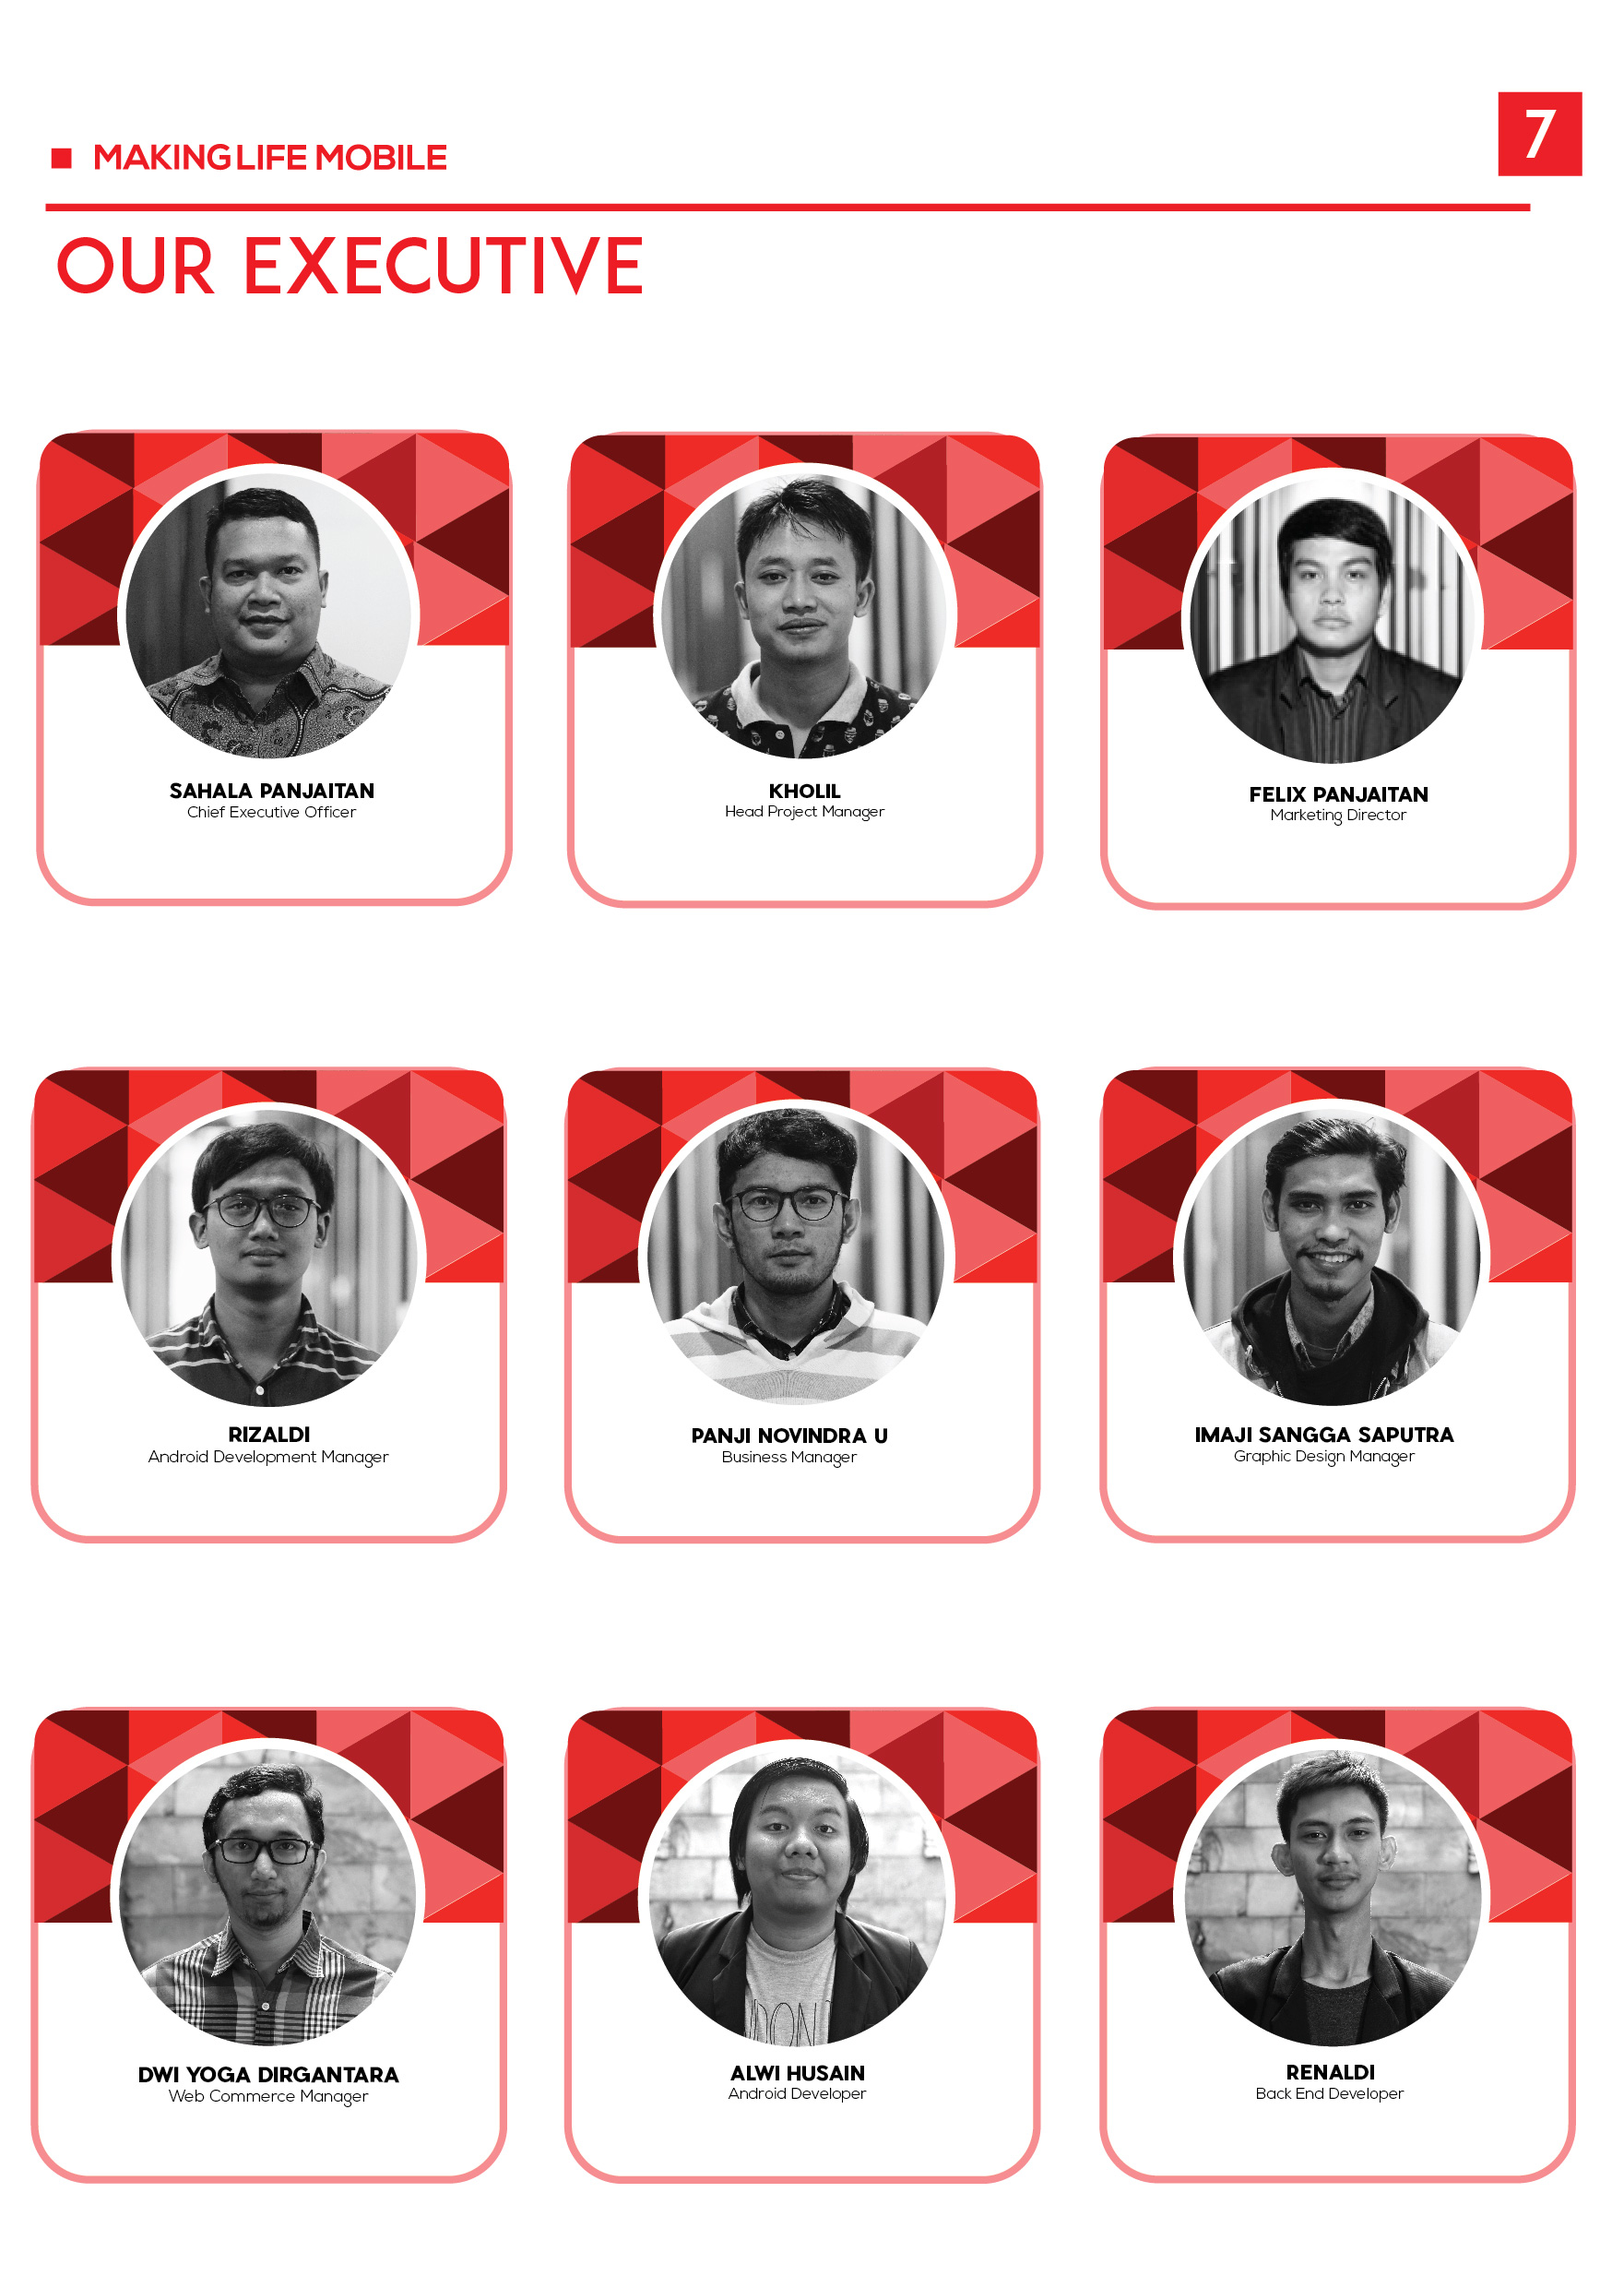
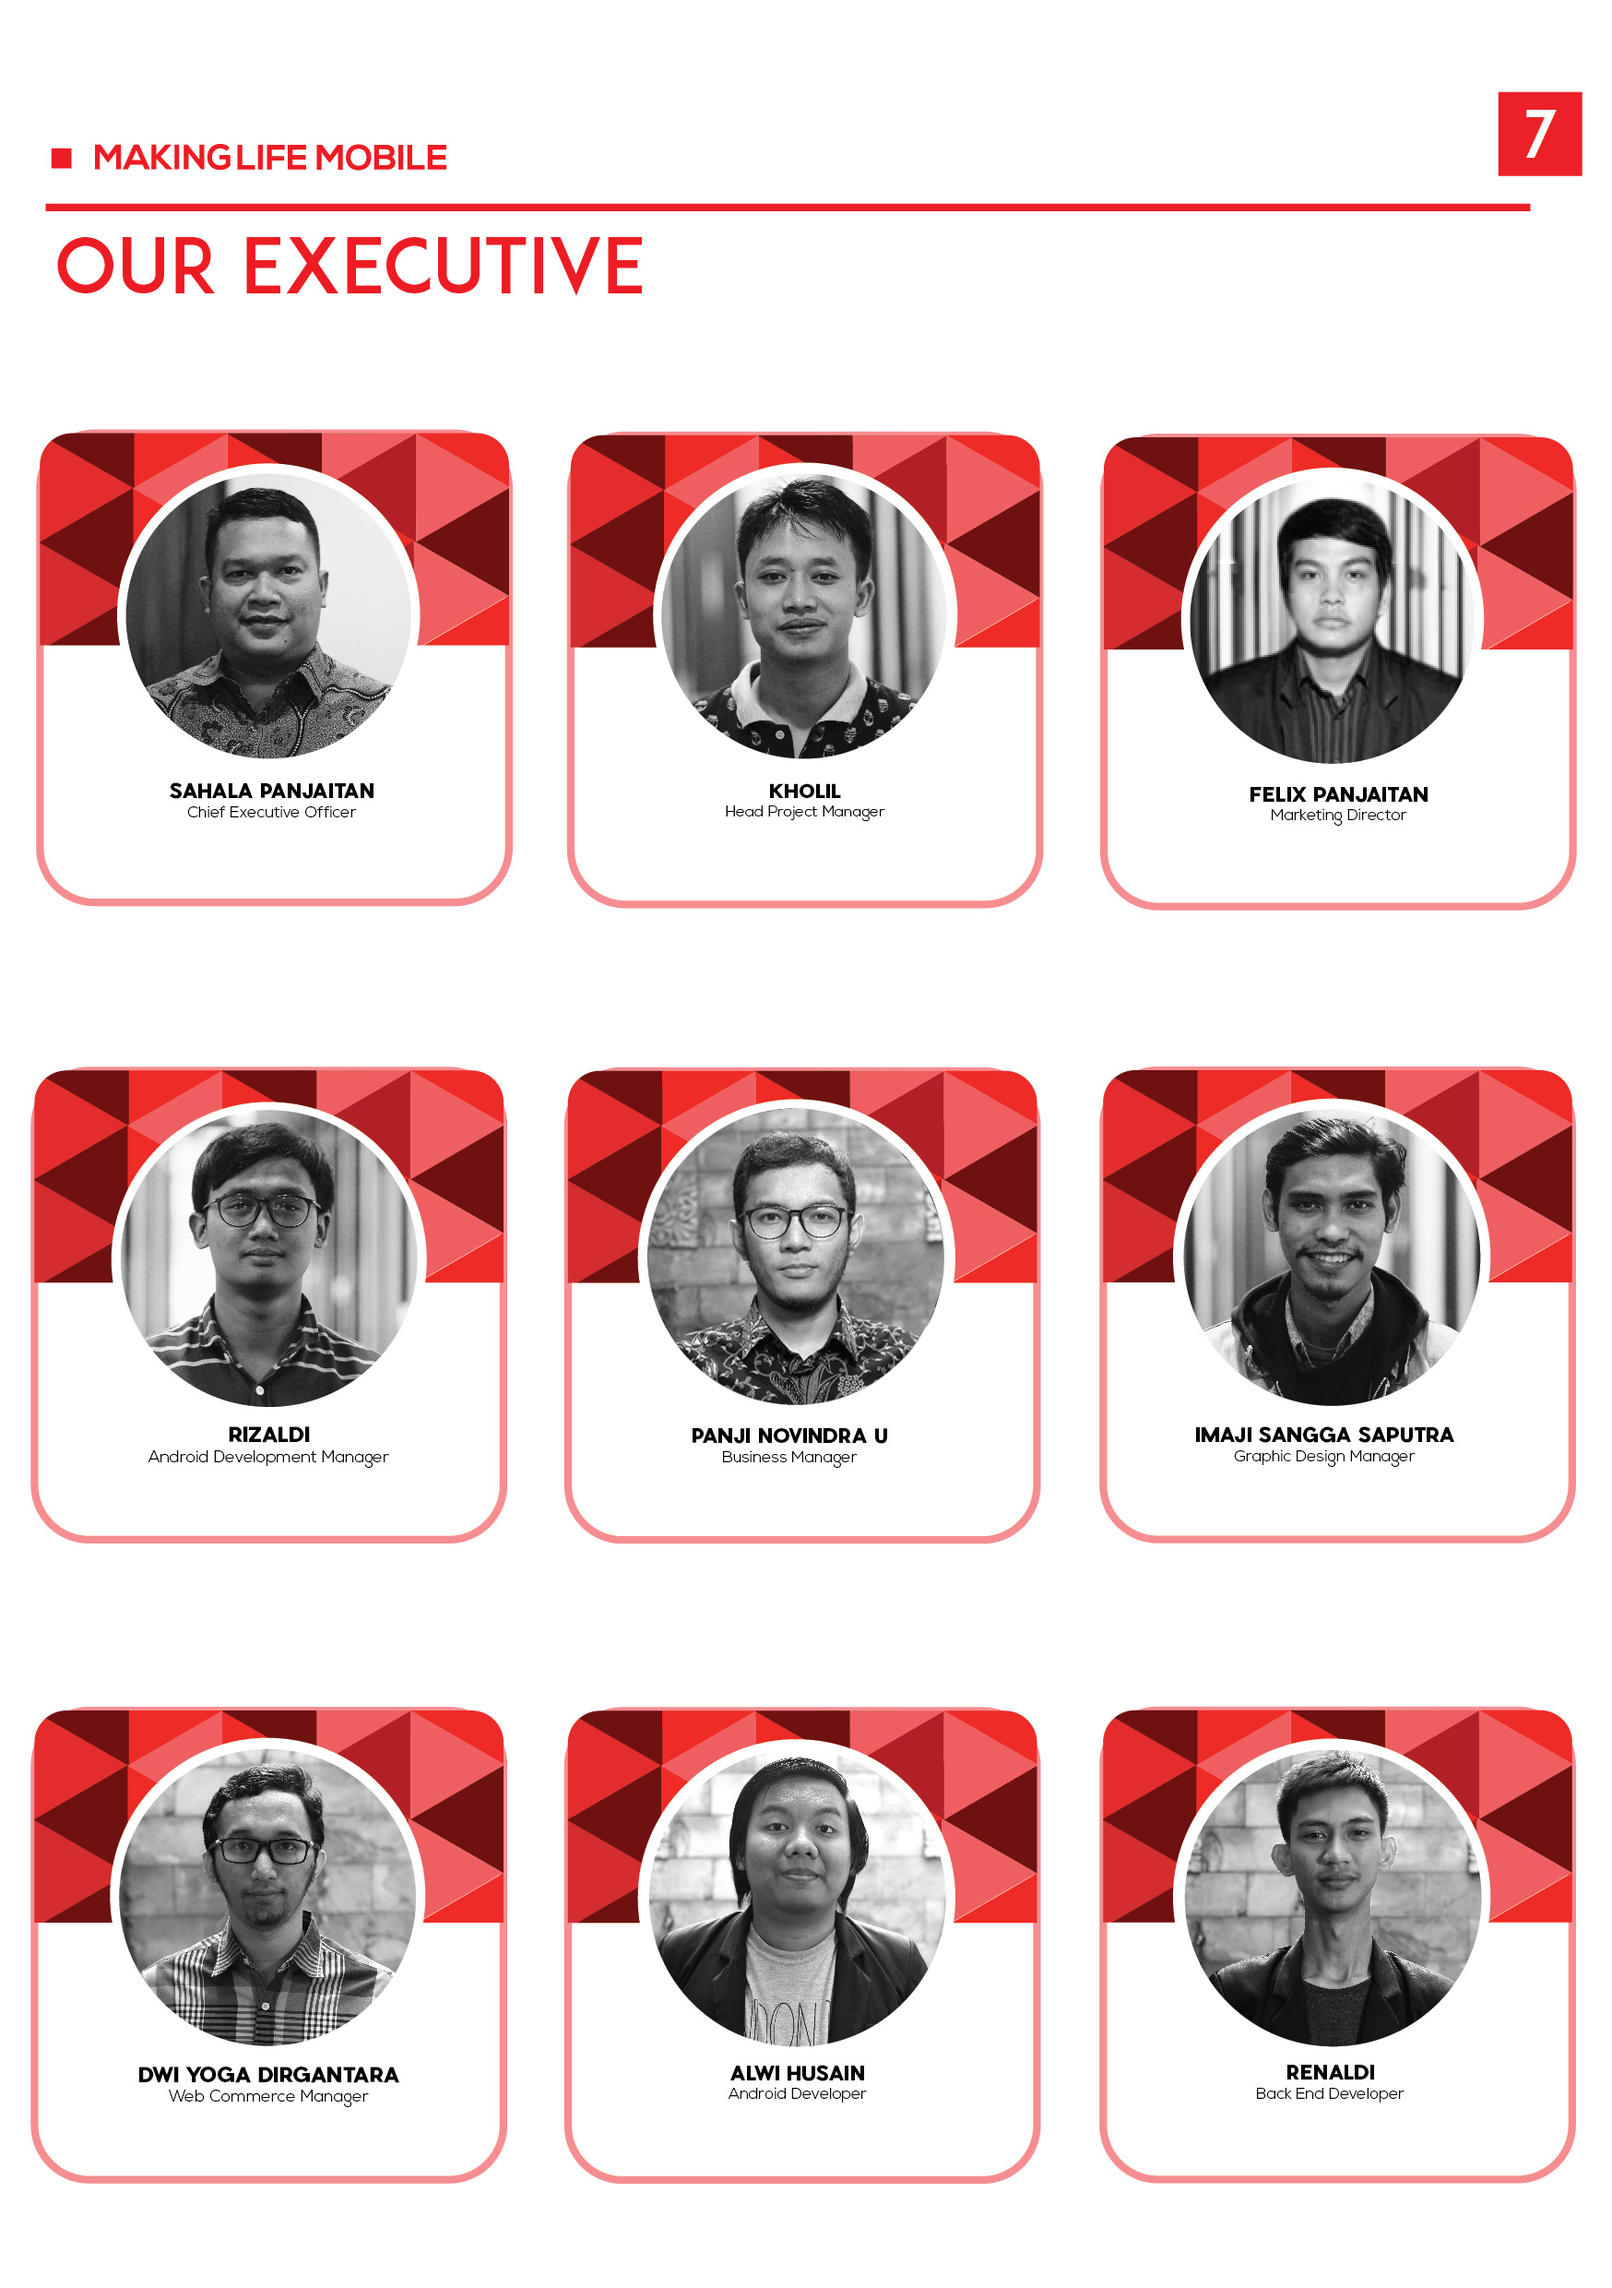
update compro 18/10/17

Changed region(s): [[0.4016, 0.4657, 0.587, 0.621]]

diff --git a/index.html b/index.html
@@ -1344,7 +1344,7 @@
                                 <!-- Pricing Tables Wrapper -->
                                 <div class="pricing-tables-wrapper tect-center thumbnail">
 
-                                      <img src="images/newteam-compro-08.jpg" class="">
+                                      <img src="images/newteam-compro-09.jpg" class="">
                                       <!-- <div>&nbsp;</div>
                                       <img src="images/compro2.jpg" class="">
                                       <div>&nbsp;</div>
